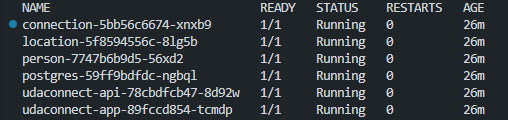
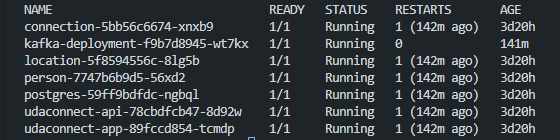
first commit

diff --git a/modules/location/app/udaconnect_location/location_pb2.py b/modules/location/app/udaconnect_location/location_pb2.py
@@ -13,7 +13,7 @@ _sym_db = _symbol_database.Default()
 
 
 
-DESCRIPTOR = _descriptor_pool.Default().AddSerializedFile(b'\n\x0elocation.proto\x12\x08location\"\"\n\x0fLocationRequest\x12\x0f\n\x07message\x18\x01 \x01(\t\"#\n\x10LocationResponse\x12\x0f\n\x07message\x18\x01 \x01(\t2^\n\x13LocationtionService\x12G\n\x0cSendLocation\x12\x19.location.LocationRequest\x1a\x1a.location.LocationResponse\"\x00\x62\x06proto3')
+DESCRIPTOR = _descriptor_pool.Default().AddSerializedFile(b'\n\x0elocation.proto\x12\x08location\"`\n\x0fLocationRequest\x12\x11\n\tperson_id\x18\x01 \x01(\x05\x12\x15\n\rcreation_time\x18\x02 \x01(\t\x12\x10\n\x08latitude\x18\x03 \x01(\x02\x12\x11\n\tlongitude\x18\x04 \x01(\x02\"#\n\x10LocationResponse\x12\x0f\n\x07message\x18\x01 \x01(\t2^\n\x13LocationtionService\x12G\n\x0cSendLocation\x12\x19.location.LocationRequest\x1a\x1a.location.LocationResponse\"\x00\x62\x06proto3')
 
 _globals = globals()
 _builder.BuildMessageAndEnumDescriptors(DESCRIPTOR, _globals)
@@ -22,9 +22,9 @@ if _descriptor._USE_C_DESCRIPTORS == False:
 
   DESCRIPTOR._options = None
   _globals['_LOCATIONREQUEST']._serialized_start=28
-  _globals['_LOCATIONREQUEST']._serialized_end=62
-  _globals['_LOCATIONRESPONSE']._serialized_start=64
-  _globals['_LOCATIONRESPONSE']._serialized_end=99
-  _globals['_LOCATIONTIONSERVICE']._serialized_start=101
-  _globals['_LOCATIONTIONSERVICE']._serialized_end=195
+  _globals['_LOCATIONREQUEST']._serialized_end=124
+  _globals['_LOCATIONRESPONSE']._serialized_start=126
+  _globals['_LOCATIONRESPONSE']._serialized_end=161
+  _globals['_LOCATIONTIONSERVICE']._serialized_start=163
+  _globals['_LOCATIONTIONSERVICE']._serialized_end=257
 # @@protoc_insertion_point(module_scope)

diff --git a/modules/connection/app/udaconnect_connection/controllers.py b/modules/connection/app/udaconnect_connection/controllers.py
@@ -6,9 +6,15 @@ from .schemas import ConnectionSchema
 from .services import ConnectionService
 from flask import request
 from flask_accepts import accepts, responds
-from flask_restx import Namespace, Resource
-from typing import Optional
-from flask_restx import Resource, Api, fields
+from flask_restx import Namespace, Resource, Api, fields
+
+# Imports for Kafka and gRPC integration
+from .kafkaservice import KafkaService
+from .grpcservice import GRPCService
+
+# Instantiating Kafka and gRPC services
+kafka_service = KafkaService(kafka_topic="connection_topic")
+grpc_service = GRPCService(server_address="localhost:50051")
 
 DATE_FORMAT = "%Y-%m-%d"
 
@@ -55,19 +61,8 @@ class APIInfoResource(Resource):
 class ConnectionDataResource(Resource):
     @responds(schema=ConnectionSchema, many=True)
     def get(self, person_id) -> ConnectionSchema:
-        start_date: datetime = datetime.strptime(
-            request.args["start_date"], DATE_FORMAT
-        )
-        end_date: datetime = datetime.strptime(request.args["end_date"], DATE_FORMAT)
-        distance: Optional[int] = request.args.get("distance", 5)
-
-        results = ConnectionService.find_contacts(
-            person_id=person_id,
-            start_date=start_date,
-            end_date=end_date,
-            meters=distance,
-        )
-        return results
+        # Logic
+        pass
 
 def register_routes(api, app, root="api"):
     api.add_namespace(api)

diff --git a/modules/location/app/udaconnect_location/controllers.py b/modules/location/app/udaconnect_location/controllers.py
@@ -7,6 +7,8 @@ from .services import LocationService
 from flask import request
 from flask_accepts import accepts, responds
 from flask_restx import Namespace, Resource
+from .grpcservice import GRPCService
+from .kafkaservice import KafkaService
 
 api = Namespace("UdaConnect", description="Connections via geolocation.")  # noqa
 
@@ -24,12 +26,18 @@ class APIInfoResource(Resource):
 @api.route("/locations/<location_id>")
 @api.param("location_id", "Unique ID for a given Location", _in="query")
 class LocationResource(Resource):
+
     @swag_from('modules/location/swagger_configs/create_location.yml')  
     @accepts(schema=LocationSchema)
     @responds(schema=LocationSchema)
     def post(self) -> Location:
-        request.get_json()
-        location: Location = LocationService.create(request.get_json())
+        location_data = request.get_json()
+        location: Location = LocationService.create(location_data)
+
+        # Send location via gRPC
+        grpc_service = GRPCService(server_address="[::]:50051")
+        grpc_response = grpc_service.send_location(location_data)
+
         return location
 
     @swag_from('modules/location/swagger_configs/get_location.yml')  

diff --git a/modules/location/app/udaconnect_location/services.py b/modules/location/app/udaconnect_location/services.py
@@ -7,12 +7,12 @@ from .models import Location
 from .schemas import LocationSchema
 from geoalchemy2.functions import ST_AsText, ST_Point
 from sqlalchemy.sql import text
+from .kafkaservice import KafkaService
 
 db = SQLAlchemy()
 
 logging.basicConfig(level=logging.WARNING)
 logger = logging.getLogger("location-api")
-
 
 class LocationService:
     @staticmethod
@@ -23,7 +23,6 @@ class LocationService:
             .one()
         )
 
-        # Rely on database to return text form of point to reduce overhead of conversion in app code
         location.wkt_shape = coord_text
         return location
 
@@ -40,5 +39,8 @@ class LocationService:
         new_location.coordinate = ST_Point(location["latitude"], location["longitude"])
         db.session.add(new_location)
         db.session.commit()
+
+        kafka_service = KafkaService(kafka_topic="location_topic")
+        kafka_service.send_message(str(new_location.id))
 
         return new_location

diff --git a/modules/connection/app/udaconnect_connection/connection_gprc_server.py b/modules/connection/app/udaconnect_connection/connection_gprc_server.py
@@ -1,0 +1,25 @@
+import grpc
+from concurrent import futures
+import connection_pb2
+import connection_pb2_grpc
+
+class ConnectionServiceServicer(connection_pb2_grpc.ConnectionServiceServicer):
+    def SendConnection(self, request, context):
+        # Implement your logic to handle the gRPC message here. 
+        # For now, we'll just echo the received message back as a response.
+        response = connection_pb2.ConnectionResponse()
+        response.message = "Received message: " + request.message
+        return response
+
+def serve():
+    server = grpc.server(futures.ThreadPoolExecutor(max_workers=10))
+    connection_pb2_grpc.add_ConnectionServiceServicer_to_server(ConnectionServiceServicer(), server)
+    
+    # Use the appropriate address and port here
+    server_address = 'localhost:50051'
+    server.add_insecure_port(server_address)
+    server.start()
+    server.wait_for_termination()
+
+if __name__ == "__main__":
+    serve()

diff --git a/modules/location/app/udaconnect_location/grpcservice.py b/modules/location/app/udaconnect_location/grpcservice.py
@@ -1,13 +1,18 @@
 import grpc
-import location_pb2
-import location_pb2_grpc
+from . import location_pb2
+from . import location_pb2_grpc
 
 class GRPCService:
     def __init__(self, server_address):
         self.channel = grpc.insecure_channel(server_address)
         self.stub = location_pb2_grpc.LocationStub(self.channel)
 
-    def send_message(self, message):
-        request = location_pb2.LocationRequest(message=message)
-        response = self.stub.Sendlocation(request)
-        return response
+    def send_location(self, location):
+        request = location_pb2.LocationRequest(
+            person_id=location["person_id"],
+            creation_time=location["creation_time"],
+            latitude=location["latitude"],
+            longitude=location["longitude"]
+        )
+        response = self.stub.SendLocation(request)
+        return response.message

diff --git a/modules/connection/app/udaconnect_connection/connection_pb2_grpc.py b/modules/connection/app/udaconnect_connection/connection_pb2_grpc.py
@@ -2,7 +2,7 @@
 """Client and server classes corresponding to protobuf-defined services."""
 import grpc
 
-import connection_pb2 as connection__pb2
+from . import connection_pb2 as connection__pb2
 
 
 class ConnectionServiceStub(object):

diff --git a/modules/location/app/udaconnect_location/location_pb2_grpc.py b/modules/location/app/udaconnect_location/location_pb2_grpc.py
@@ -2,7 +2,7 @@
 """Client and server classes corresponding to protobuf-defined services."""
 import grpc
 
-import location_pb2 as location__pb2
+from . import location_pb2 as location__pb2
 
 
 class LocationtionServiceStub(object):

diff --git a/modules/person/app/udaconnect_person/person_pb2_grpc.py b/modules/person/app/udaconnect_person/person_pb2_grpc.py
@@ -2,7 +2,7 @@
 """Client and server classes corresponding to protobuf-defined services."""
 import grpc
 
-import person_pb2 as person__pb2
+from . import person_pb2 as person__pb2
 
 
 class PersonServiceStub(object):

diff --git a/modules/connection/app/udaconnect_connection/grpcservice.py b/modules/connection/app/udaconnect_connection/grpcservice.py
@@ -1,6 +1,6 @@
 import grpc
-import connection_pb2
-import connection_pb2_grpc
+from . import connection_pb2
+from . import connection_pb2_grpc
 
 class GRPCService:
     def __init__(self, server_address):

diff --git a/modules/person/app/udaconnect_person/gprcservice.py b/modules/person/app/udaconnect_person/gprcservice.py
@@ -1,6 +1,6 @@
 import grpc
-import person_pb2
-import person_pb2_grpc
+from . import person_pb2
+from . import person_pb2_grpc
 
 class GRPCService:
     def __init__(self, server_address):

diff --git a/README.md b/README.md
@@ -189,27 +189,8 @@ Your architecture diagram should focus on the services and how they talk to one 
 * We can access a running Docker container using `kubectl exec -it <pod_id> sh`. From there, we can `curl` an endpoint to debug network issues.
 * The starter project uses Python Flask. Flask doesn't work well with `asyncio` out-of-the-box. Consider using `multiprocessing` to create threads for asynchronous behavior in a standard Flask application.
 
-- person
-  - Dockerfile
-  - requirements.txt
-  - wsgi.py
-  - app
-    - __init__.py
-    - config.py
-    - routes.py
-    - udaconnect_person
-      - __init__.py
-      - person_pb2_grpc.py
-      - person_pb2.py
-      - controllers.py
-      - grpcservice.py
-      - kafkaservice.py
-      - models.py
-      - schemas.py
-      - services.py
-  - protos
-    - person.proto
-  - swagger_configs
-    - create_person.yml
-    - get_person.yml
-    - list_persons.yml
+### Some Project's Commands
+
+python -m grpc_tools.protoc -I./protos --python_out=./app/udaconnect_connection --grpc_python_out=./app/udaconnect_connection ./protos/connection.proto
+python -m grpc_tools.protoc -I./protos --python_out=./app/udaconnect_location --grpc_python_out=./app/udaconnect_location ./protos/location.proto
+python -m grpc_tools.protoc -I./protos --python_out=./app/udaconnect_person --grpc_python_out=./app/udaconnect_person ./protos/person.proto
